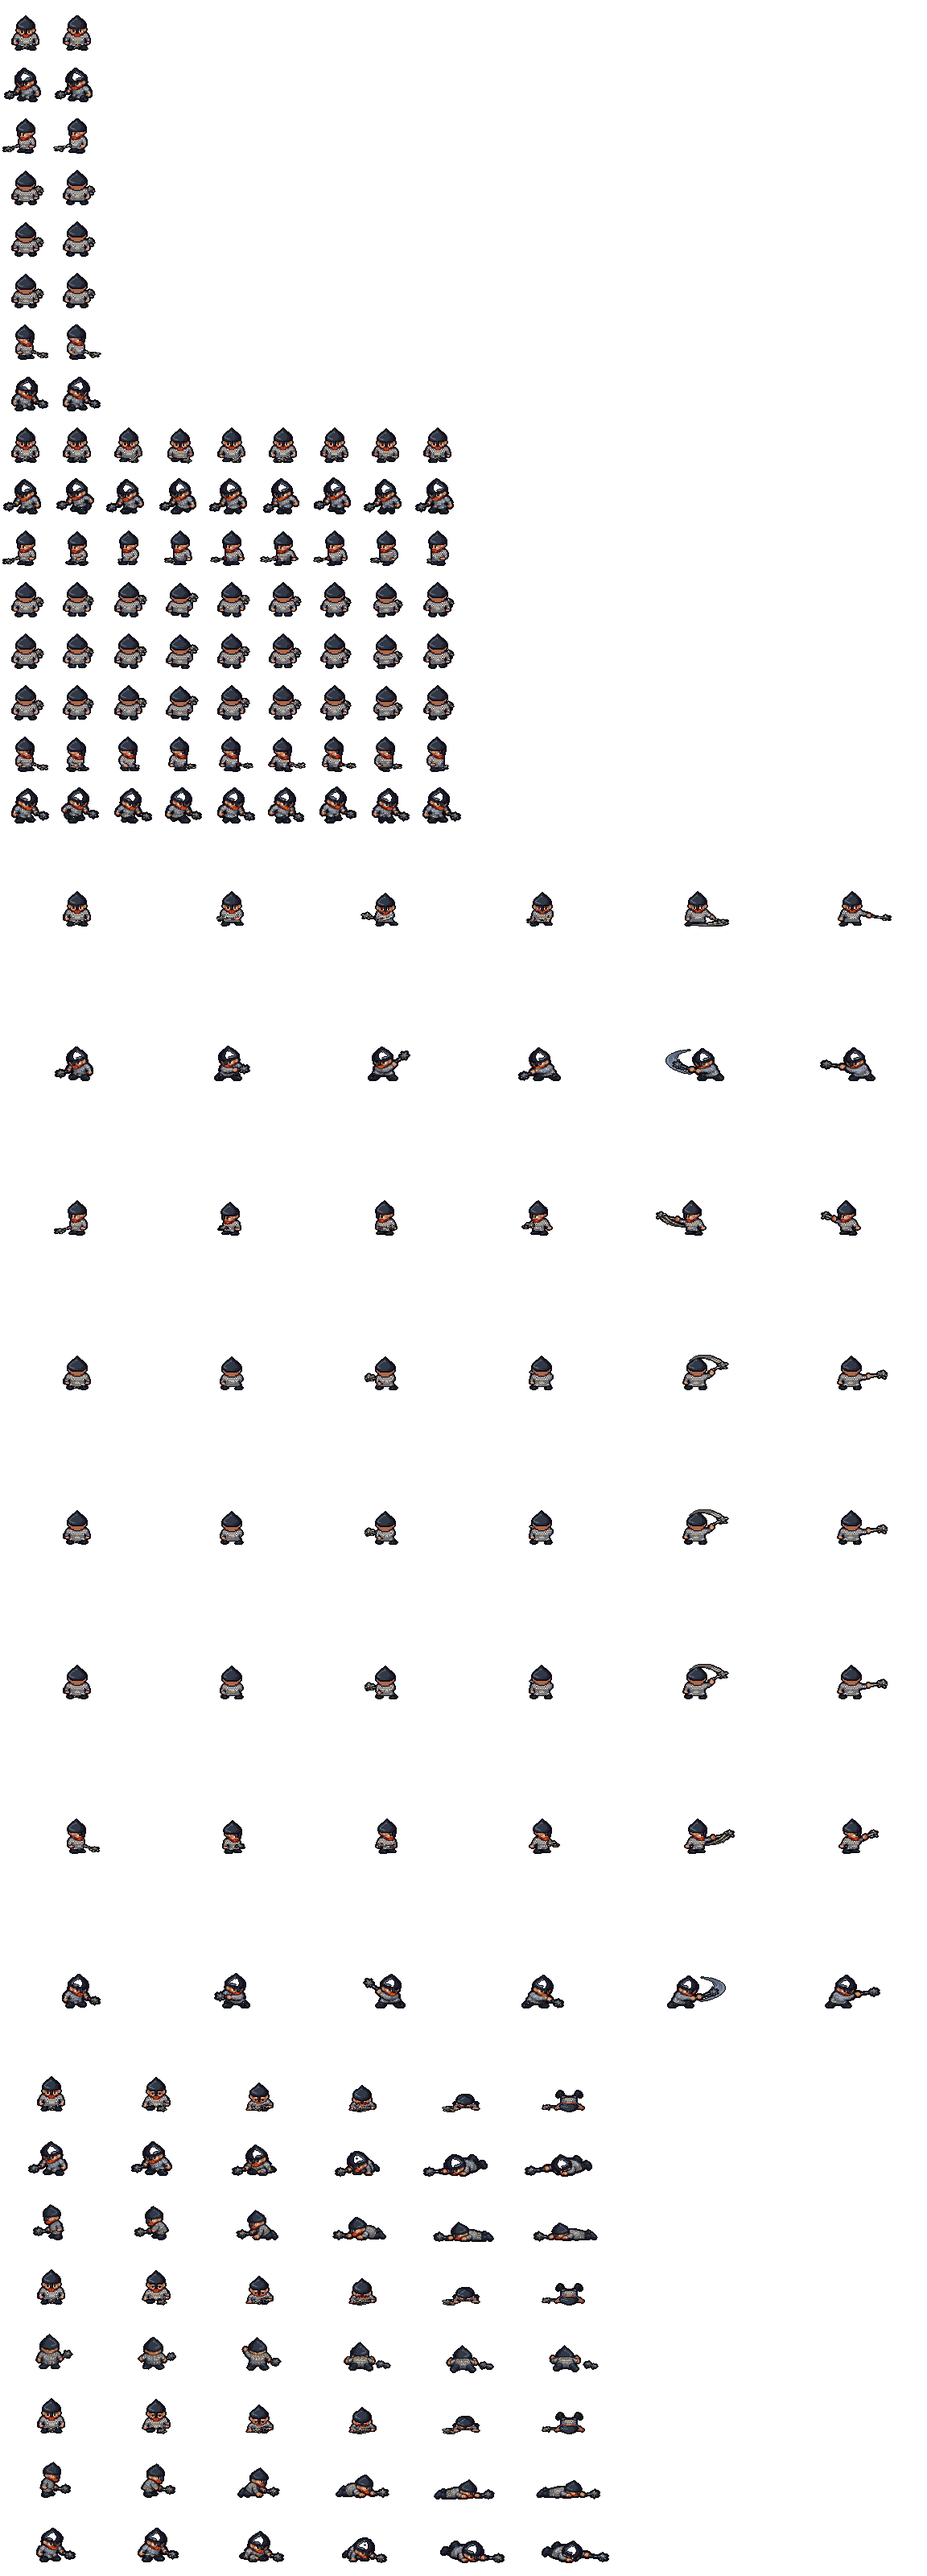
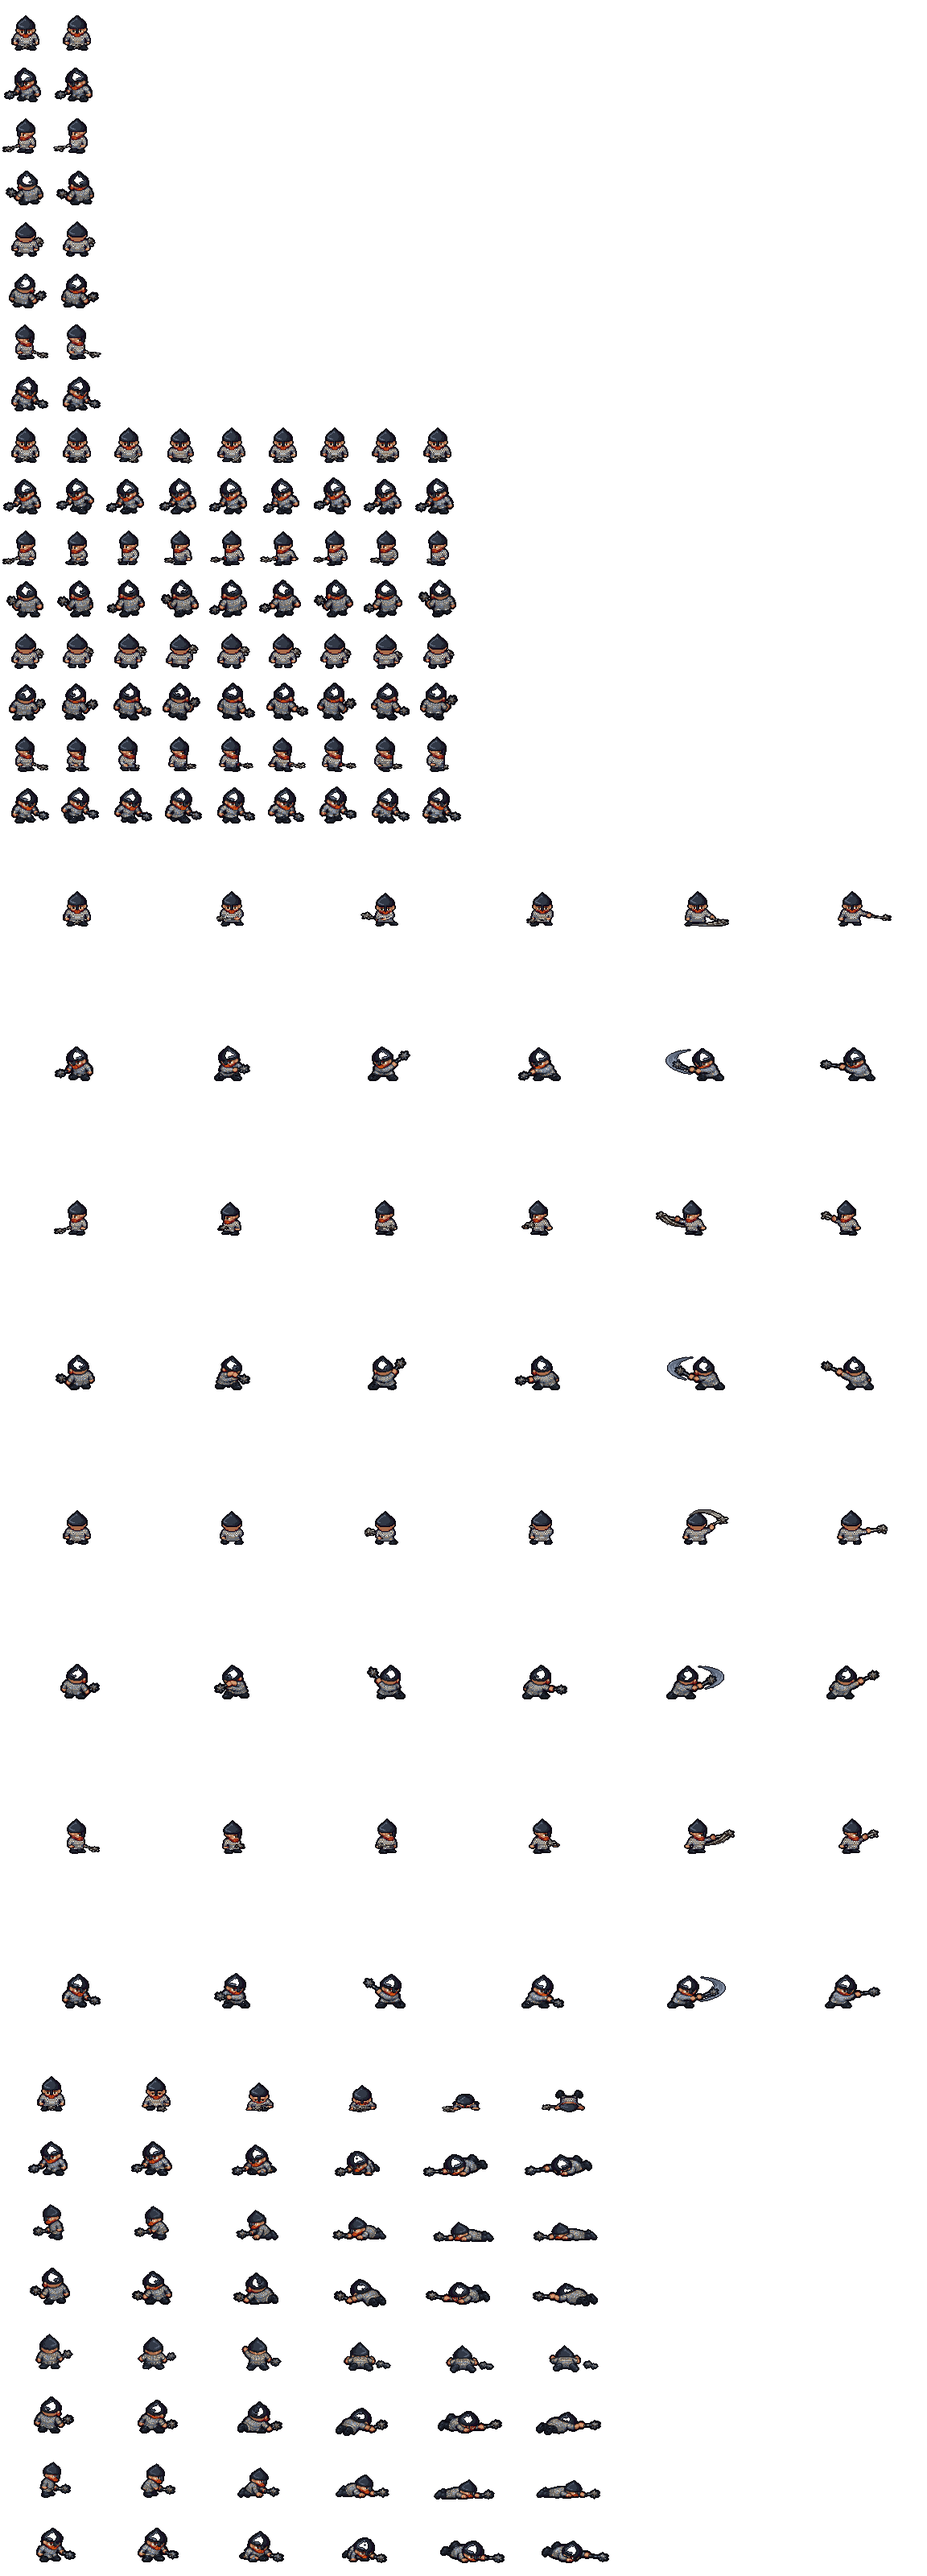
DEEP16 art: the dwarf trooper's NE and NW from ART-61's HEAD 2, so he is drawn in all eight facings
HEAD 2 came loose after the zip (Griz, 10-15: "just added to Fresh, it didn't put it in the zip"), sorted to
deep16/_src/trooper/ART-61/ART-61_HEAD-2_PAGE-1.png: NE Idle 2, Walk 9, Attack 6, Hurt 6, cut into trooper_p0 by
tools/lpc-diag-sheet.py (k 3.310 by its Idle 1; toned to N and E), NW mirrored. The mace in the right hand, on screen-right as LPC's
back and side carry it; its Attack winds up left and strikes right as N's does. The art desk's alternate NE attack row (his: "looked
slightly better - it couldn't get the hand right") is kept aside in superseded/, not used. Every LPC drawing is unchanged against the
sheet before ART-61 (S, W, N, E idle/walk/attack, S hurt: 13 rows); a re-run of pixelate.py p0 reproduces the sheet byte for byte.

diff --git a/tools/lpc-diag-sheet.py b/tools/lpc-diag-sheet.py
@@ -64,7 +64,7 @@ NUM = lambda k: [str(i + 1) for i in range(k)]
 # y0 y1, the numbers). `view` is the facing the page draws; `ref` the page's standing frame its scale is read from. `owed` is what the art
 # desk has not sent yet: those facings stay as pixelate.py lays them.
 FIGS = {
-    'trooper': dict(                                          # ART-61, 10-15: three pages of four, PARTIAL (deep16/_src/trooper/ART-61/)
+    'trooper': dict(                                          # ART-61, 10-15: all four pages (deep16/_src/trooper/ART-61/)
         dir='trooper/ART-61',
         pages={
             'H1P1': dict(file='ART-61_HEAD-1_PAGE-1.png', view='SE', ref=('idle', '1'),          # SE: Idle 2, Walk 9, Attack 6, Hurt 6
@@ -74,6 +74,15 @@ FIGS = {
                                ('walk', (150, 193, 2067, 352), (352, 377), NUM(9)),
                                ('attack', (150, 378, 2067, 540), (540, 568), NUM(6)),
                                ('hurt', (150, 568, 2067, 719), (719, 746), NUM(6))]),
+            # (HEAD 2 came loose, after the zip -- Griz, 10-15: "just added to Fresh, it didn't put it in the zip"; its Hurt 4 reaches into
+            # its number strip, so that strip starts under it, in the numbers' lower part)
+            'H2P1': dict(file='ART-61_HEAD-2_PAGE-1.png', view='NE', ref=('idle', '1'),          # NE: Idle 2, Walk 9, Attack 6, Hurt 6
+                         text=[(0, 85, 145, 140), (0, 262, 145, 315), (0, 440, 145, 492), (0, 618, 145, 670),
+                               (150, 166, 2067, 192), (150, 348, 2067, 376), (150, 540, 2067, 568), (150, 721, 2067, 746)],
+                         rows=[('idle', (150, 10, 2067, 166), (166, 192), NUM(2)),
+                               ('walk', (150, 190, 2067, 348), (348, 376), NUM(9)),
+                               ('attack', (150, 378, 2067, 540), (540, 568), NUM(6)),
+                               ('hurt', (150, 566, 2067, 725), (725, 746), NUM(6))]),
             'H4P1': dict(file='ART-61_HEAD-4_PAGE-1.png', view='E', ref=('hurt', '1'),           # E: Hurt 6
                          text=[(0, 445, 170, 515), (180, 516, 2172, 556)],
                          rows=[('hurt', (180, 280, 2172, 516), (516, 556), NUM(6))]),
@@ -84,7 +93,7 @@ FIGS = {
                          text=[(0, 385, 140, 450), (150, 524, 2137, 565)],
                          rows=[('hurt', (150, 285, 2137, 524), (524, 565), NUM(6))]),
         },
-        owed={'H2P1': 'NE (NW mirrored): Idle 2, Walk 9, Attack 6, Hurt 6 -- open at the art desk'}),
+        owed={}),
 }
 
 
